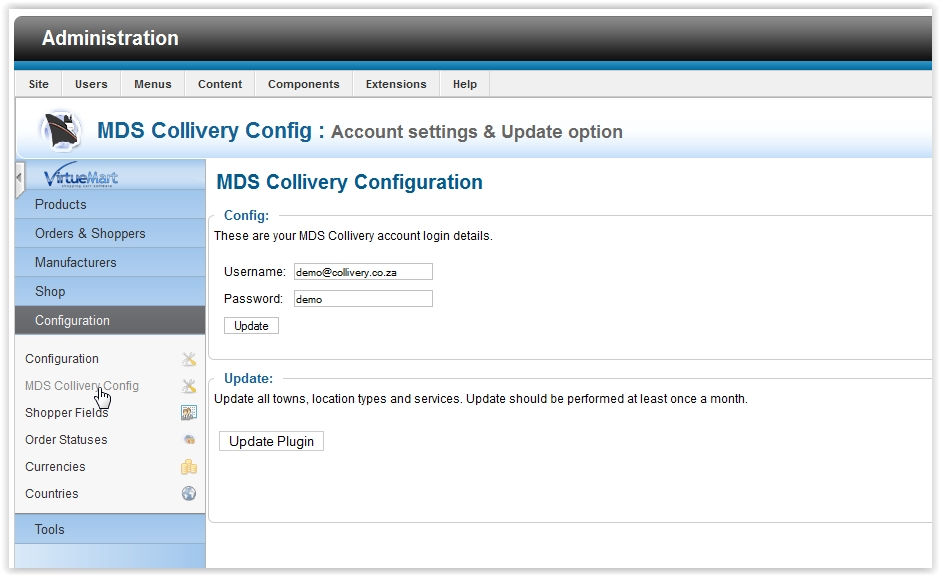
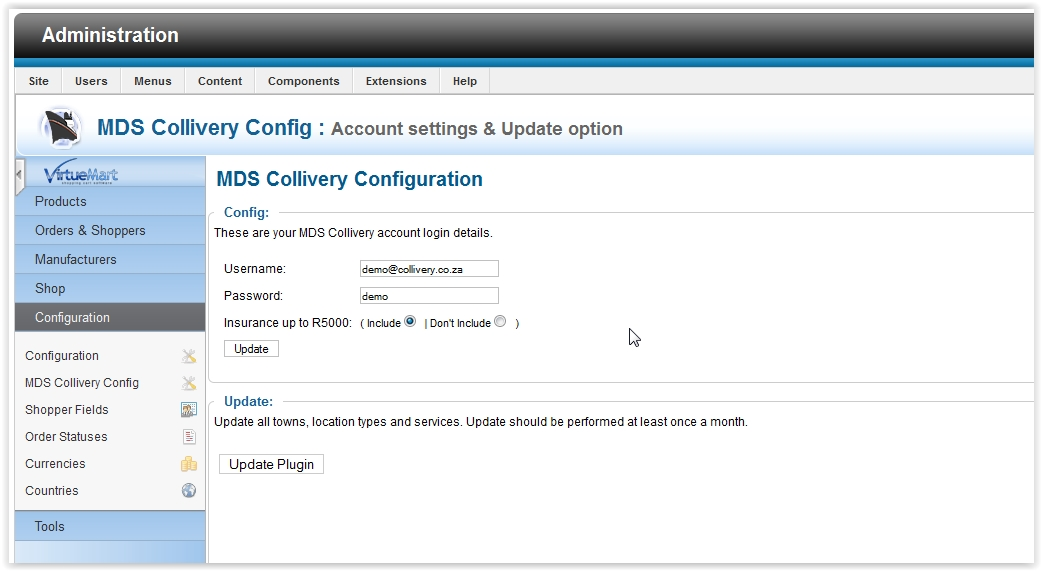
Included insurance in the documentation

diff --git a/index.htm b/index.htm
@@ -58,9 +58,9 @@
 			<header>
 				<h2><a name="admin_config" href="#admin_config">Configuration</a></h2>
 			</header>
-			<p class="description">We have a few configuration settings as well as our account settings. You can configure which delivery services you want to use as well as the mark-up for each service. The account settings are your username and password for your MDS Collivery Account. Under our account settings we also have an update button which is used for updating towns, suburbs, location types and delivery services.</p>
+			<p class="description">We have some configuration settings to go through, the first being insurance on your deliveries, if you include insurance this setting will be passed onto the API so your clients receive an accurate price from the API. The other settings are your account username and password for your MDS Collivery account.  By default the plugin uses the demo account, you will need to update to your account settings! We have also included an update button there, this update function updates all towns, suburbs, location types and your shipping methods.</p>
 			<img src="images/config.jpg"/><br />
-			<p>Under the Shop menu click on Shipment Methods, there you will see a list of all the delivery services the plugin has added.</p>
+			<p>The other settings you need to be aware of is shipping methods, you can configure which delivery services you want to use as well as the mark-up for each service.  Under the Shop menu click on Shipment Methods, there you will see a list of all the delivery services the plugin has added.</p>
 			<img src="images/shipment_methods.jpg"/><br />
 			<p>If you select on one of the service’s you will have the ability to edit the descriptions, name and if you want your clients to use that service. Please note: Do not change Sef Alias as this is the unique id that the API uses to determine which service you using.</p>
 			<img src="images/editing_service.jpg"/><br />
